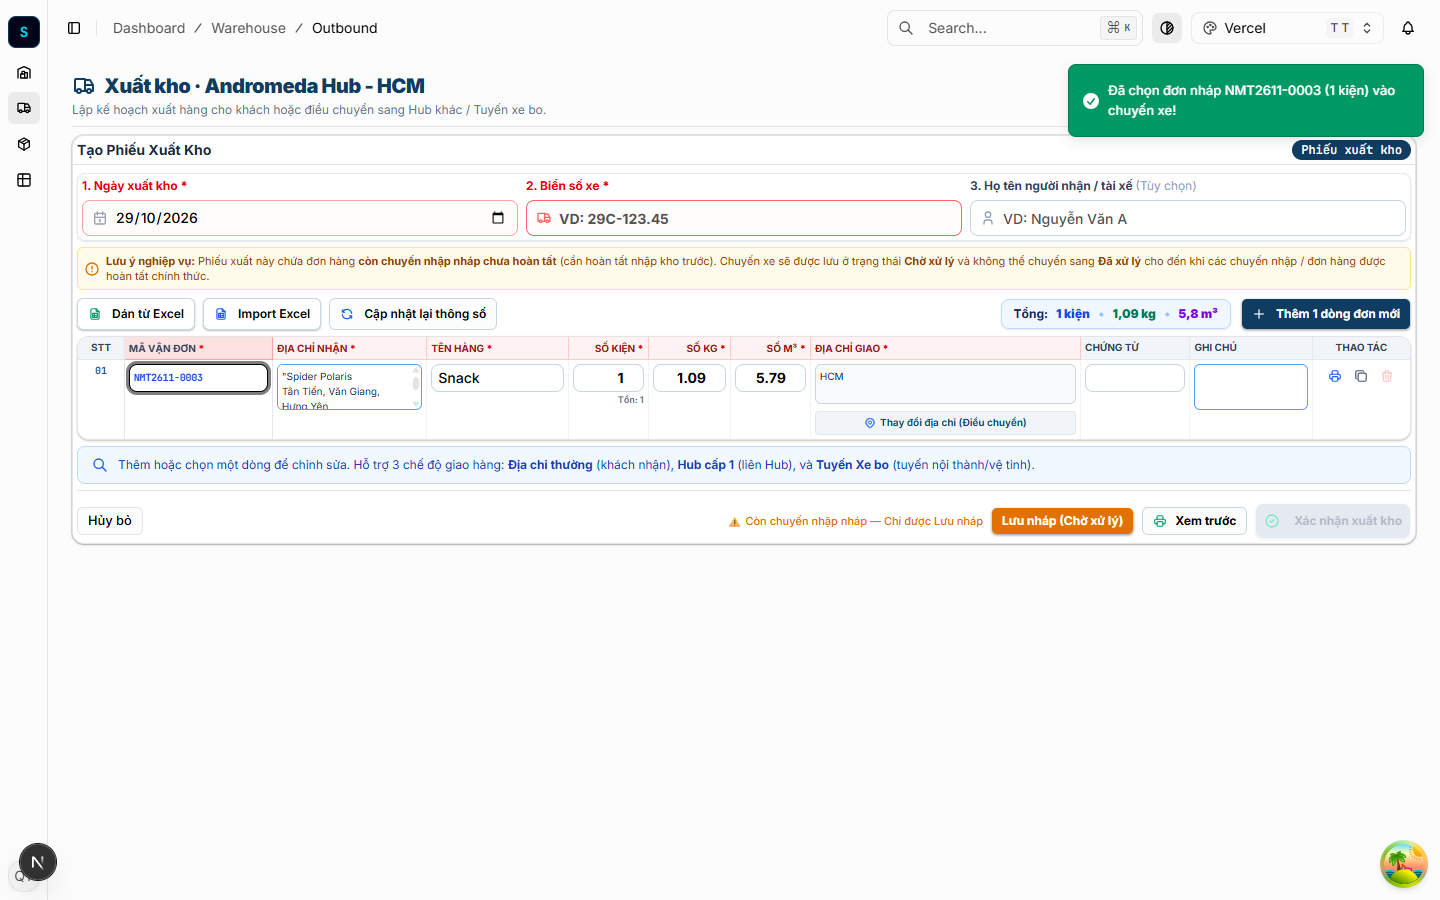
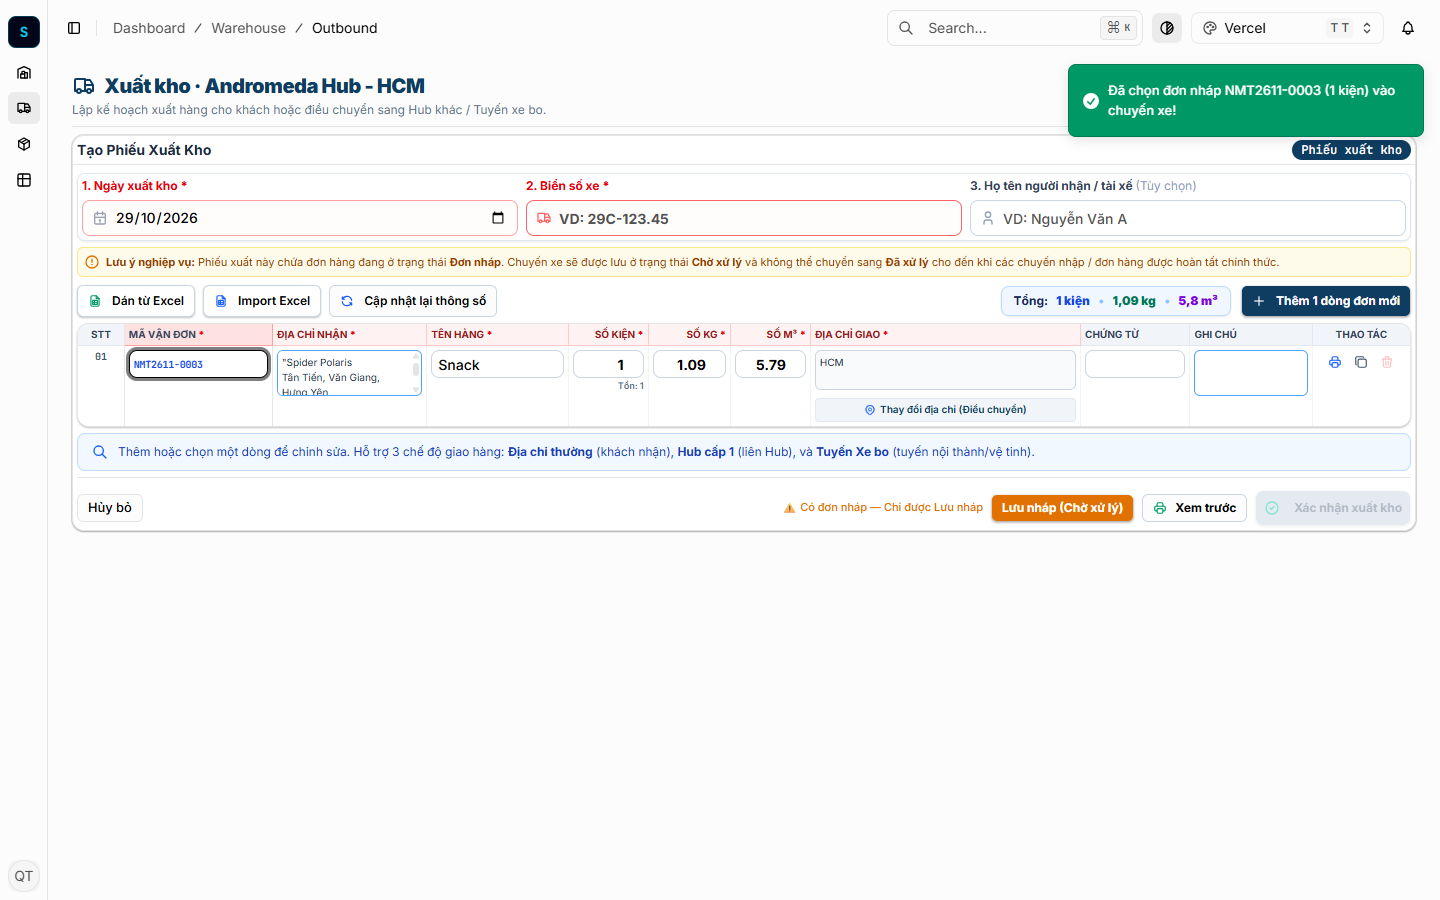
docs: add RESOLUTION.md and evidence for feedback 29/10

Changed region(s): [[0.0625, 0.28, 1.0, 0.6222], [0.9375, 0.9333, 1.0, 0.9956], [0.0, 0.9333, 0.0625, 0.9956]]

diff --git a/feedbacks/feedback_29_10_pending_inbound_trip_draft_lock/RESOLUTION.md b/feedbacks/feedback_29_10_pending_inbound_trip_draft_lock/RESOLUTION.md
@@ -1,0 +1,56 @@
+# RESOLUTION: Feedback 29/10 — Xử Lý Chuyến Nhập Nháp & Khóa Xuất Kho Theo Quy Chuẩn Vận Hành
+
+## 1. Bối cảnh & Yêu cầu Nghiệp vụ
+1. **Khóa Xác nhận xuất kho khi đơn hàng còn chuyến xe nhập nháp (PENDING)**:
+   - Một đơn hàng có thể về nhiều đợt (nhiều chuyến xe nhập kho khác nhau, ví dụ đơn 31 kiện về 19 kiện hôm qua và 12 kiện hôm nay).
+   - Khi tạo phiếu xuất kho (khách nhận hoặc luân chuyển Hub), nếu phát hiện trong phiếu có đơn hàng mà một phần số kiện vẫn đang nằm ở chuyến xe nhập kho trạng thái **Chờ xử lý (PENDING)**:
+     - Hệ thống **CHỈ CHO PHÉP LƯU NHÁP** để lập kế hoạch xe trước.
+     - Nút **"Xác nhận xuất kho"** bị vô hiệu hóa (disabled).
+     - Hiển thị badge cảnh báo trực quan: `⚠ Còn chuyến nhập nháp — Chỉ được Lưu nháp`.
+     - Khi chuyến nhập nháp được xác nhận nhập kho đầy đủ, chức năng Xác nhận xuất kho sẽ tự động mở khóa.
+2. **Không khóa dòng / mở nút tiếp nhận đơn lẻ trên chuyến xe nhập kho Chờ xử lý**:
+   - Trong modal chi tiết chuyến xe nhập kho (trạng thái Chờ xử lý / PENDING), các dòng đơn hàng không bị làm mờ hay vô hiệu hóa nút thao tác tiếp nhận đơn lẻ (`Nhập kho đơn hàng này`), cho phép thủ kho tiếp nhận riêng từng đơn hàng của chuyến xe đó bình thường.
+
+---
+
+## 2. Các Thay Đổi Kiến Trúc & Code
+
+### Backend (`logistics-website-backend`)
+- [`src/orders/operational-ledger.service.ts`](file:///d:/Projects/logistics-website/backend/src/orders/operational-ledger.service.ts):
+  - Bổ sung hàm `getBatchPendingInboundAllocations(orderIds, hubId)` truy vấn các chuyến xe `type = 'INBOUND'` và `status = 'PENDING'` còn hiệu lực (`deletedAt IS NULL`).
+- [`src/orders/warehouse.service.ts`](file:///d:/Projects/logistics-website/backend/src/orders/warehouse.service.ts):
+  - Tích hợp tính toán `hasPendingInboundTrip`, `pendingInboundTripCodes`, `pendingInboundQuantity` vào `computeHubView` và `enrichOrderHubContext`.
+  - Cập nhật bộ lọc truy vấn tìm kiếm xuất kho (`OUTBOUND_LOOKUP`), đảm bảo các đơn hàng có chuyến nhập nháp vẫn được tra cứu và đưa vào bảng xuất nháp bình thường.
+- [`src/orders/orders.service.ts`](file:///d:/Projects/logistics-website/backend/src/orders/orders.service.ts):
+  - Trong `findOne(idOrCode)`, tính toán và trả về thuộc tính `hasPendingInboundTrip` từ các chuyến xe liên kết.
+
+### Frontend (`logistics-website-frontend`)
+- [`src/features/warehouse/components/warehouse-editable-grid.tsx`](file:///d:/Projects/logistics-website/frontend/src/features/warehouse/components/warehouse-editable-grid.tsx):
+  - Cập nhật giao diện `WarehouseRowItem` với `hasPendingInboundTrip`, `pendingInboundTripCodes`, `pendingInboundQuantity`.
+  - Tinh chỉnh hàm `isRowInboundLocked`: khi chuyến xe đang ở chế độ Chờ xử lý (`isInboundTripMode = true`), **không khóa mờ dòng** kể cả khi đơn đó đã từng nhập một phần trước đó. Nút thao tác tiếp nhận đơn lẻ (`IconBuildingWarehouse`) luôn hiển thị và hoạt động chính xác.
+- [`src/app/dashboard/warehouse/outbound/page.tsx`](file:///d:/Projects/logistics-website/frontend/src/app/dashboard/warehouse/outbound/page.tsx):
+  - Bổ sung cờ `hasPendingInboundInNote` và gộp vào `isOutboundConfirmationBlocked`.
+  - Hiển thị badge cảnh báo màu vàng cam `⚠ Còn chuyến nhập nháp — Chỉ được Lưu nháp`.
+  - Vô hiệu hóa nút **"Xác nhận xuất kho"**, giữ nút **"Lưu nháp (Chờ xử lý)"** màu cam nổi bật sẵn sàng.
+- [`src/features/warehouse/components/warehouse-outbound-transfer-flow.tsx`](file:///d:/Projects/logistics-website/frontend/src/features/warehouse/components/warehouse-outbound-transfer-flow.tsx):
+  - Đồng bộ logic khóa tương tự cho luồng Xuất luân chuyển liên Hub (Bước 3).
+
+---
+
+## 3. Bằng Chứng Nghiệm Thu (2-Tier Quality Gate)
+
+### Tầng 1: Local E2E Gate (Port 4000 & 4001)
+- File test: [`frontend/e2e/98-feedback-29-10-pending-inbound-trip-draft-lock.spec.ts`](file:///d:/Projects/logistics-website/frontend/e2e/98-feedback-29-10-pending-inbound-trip-draft-lock.spec.ts)
+- Kết quả: **2/2 PASS 100%** (24.4s).
+- Điểm đánh giá mã kiểm thử (`e2e-auditor.mjs`): **41/50 - 🟢 PASS**.
+
+### Tầng 2: Cloud Dev Quality Gate (Railway Cloud)
+- Domain Backend Dev: `https://backend-tms-core-dev.up.railway.app/api/v1/health` (HTTP 200 OK)
+- Domain Frontend Dev: `https://frontend-tms-core-dev.up.railway.app` (HTTP 307 -> /auth/sign-in)
+- Kết quả kiểm thử trực tiếp trên Cloud Dev: **2/2 PASS 100%** (28.5s).
+
+### Ảnh Chụp Màn Hình Bằng Chứng (Visual Evidence)
+- **CASE-01 (Khóa xuất kho, chỉ cho lưu nháp khi có chuyến nhập nháp)**:
+  - Tệp: `feedbacks/feedback_29_10_pending_inbound_trip_draft_lock/step_01_outbound_locked_draft_only.png`
+- **CASE-02 (Modal nhập kho chuyến chờ xử lý hiển thị đầy đủ nút tiếp nhận đơn lẻ)**:
+  - Tệp: `feedbacks/feedback_29_10_pending_inbound_trip_draft_lock/step_02_inbound_single_buttons_active.png`
